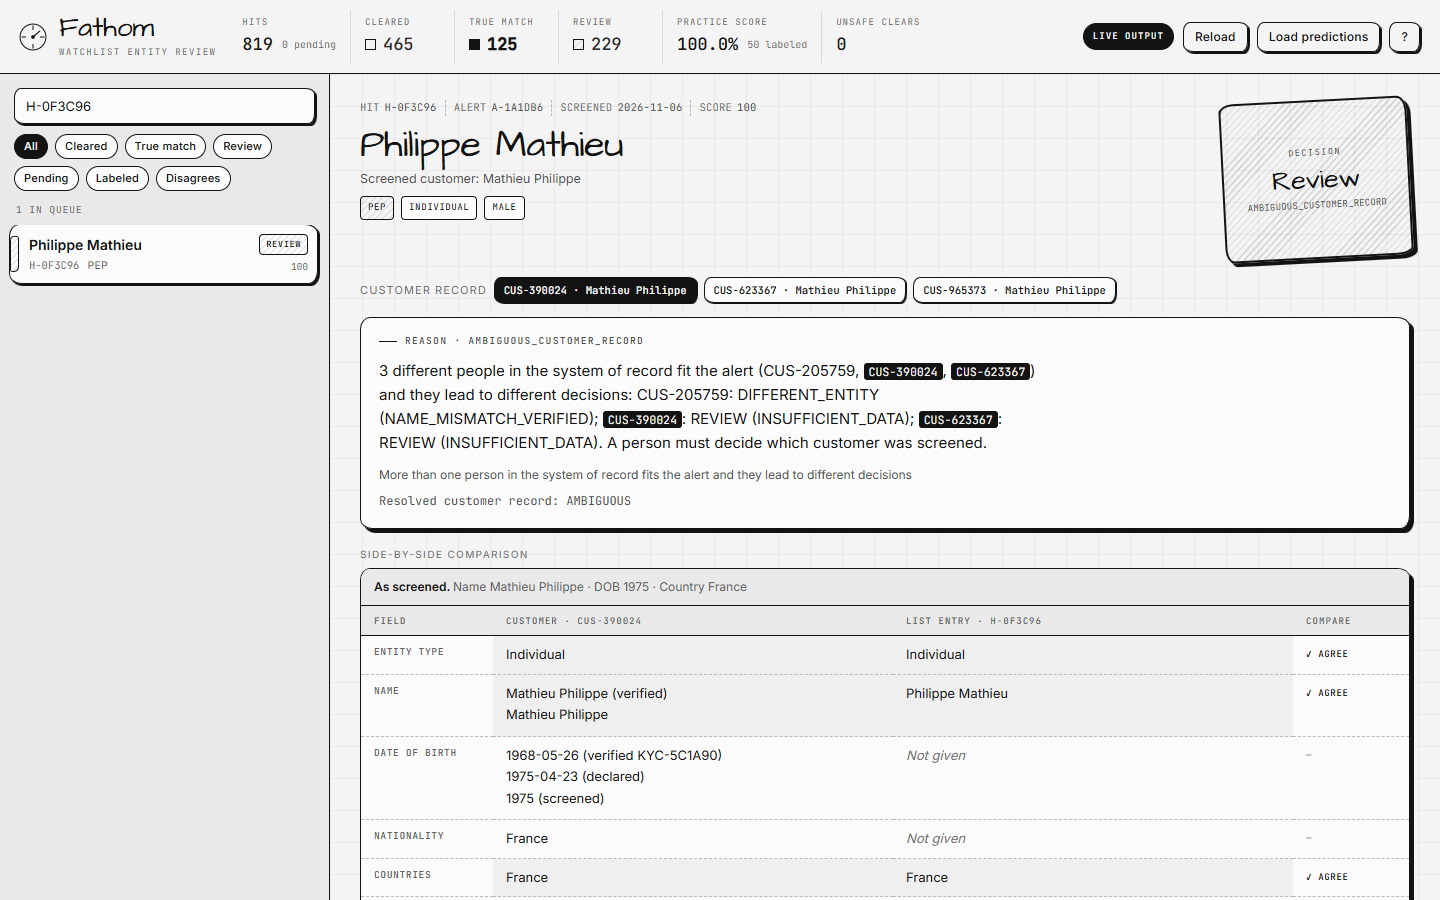
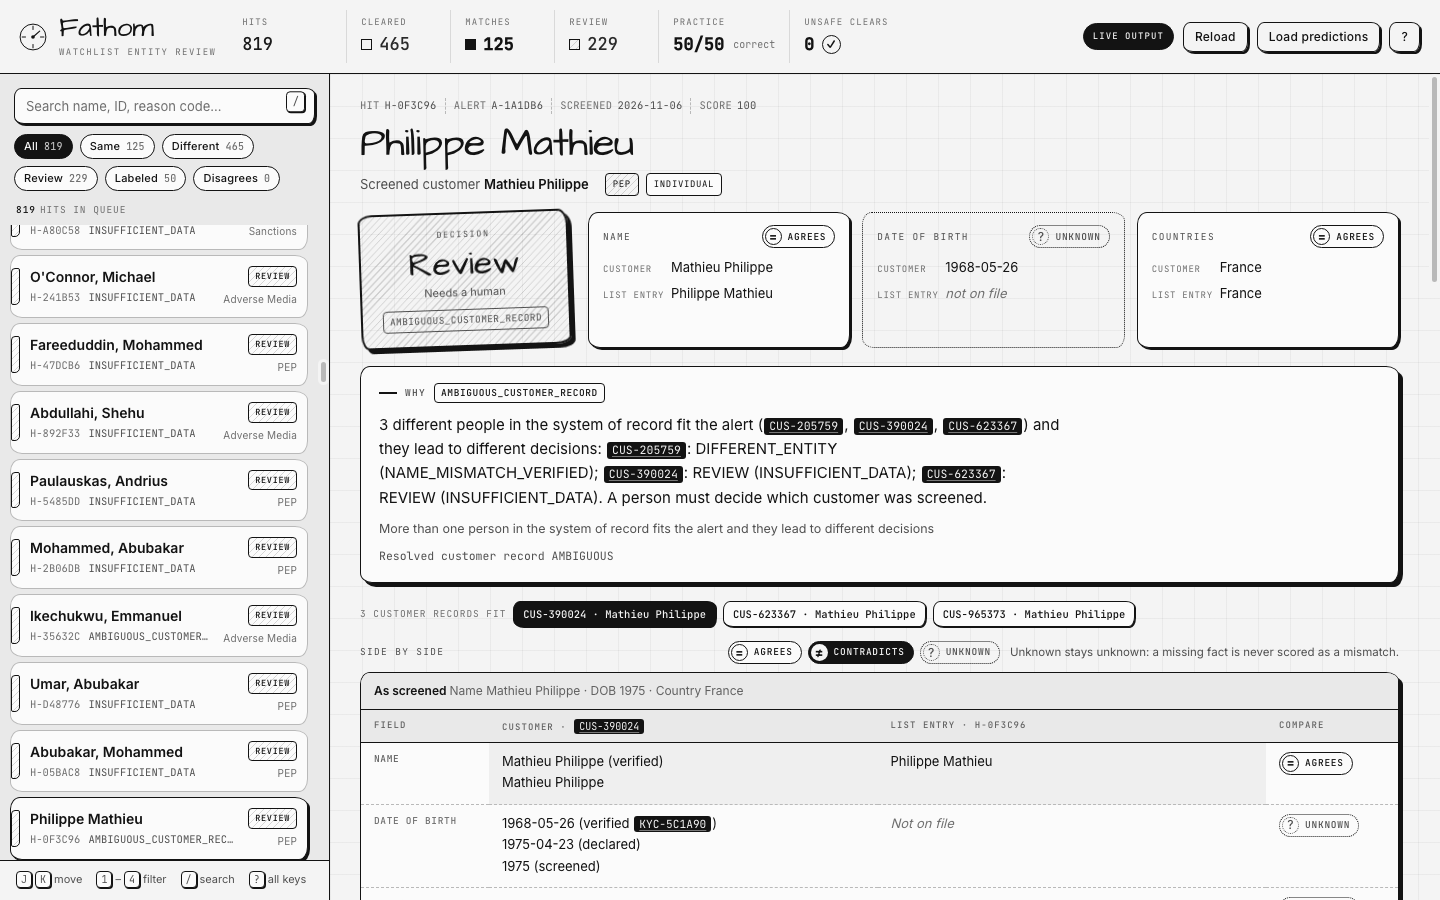
fix(ui): keep deep links, keep unknown facts unknown; refresh screenshots and README
Read the URL hash before the first render can rewrite it. A reason-code
contradiction now needs values on both sides (temporal impossibility no
longer paints DOB as contradicted). Screenshots 01-10 recaptured headless.

diff --git a/ui/app.js b/ui/app.js
@@ -32,7 +32,6 @@
     NAME_DOB_MATCH: { name: "agree", dob: "agree" },
     NAME_LOCATION_MATCH: { name: "agree", countries: "agree" },
     DOB_MISMATCH: { dob: "conflict" },
-    TEMPORAL_IMPOSSIBILITY: { dob: "conflict" },
     LOCATION_MISMATCH: { countries: "conflict" },
     NAME_MISMATCH_VERIFIED: { name: "conflict" },
   };
@@ -1061,7 +1060,13 @@
     }
     const rows = compareRows(cust, hit, kyc, alert, bundle, noteIdsForCompare);
     const asserted = CODE_FACTS[reasonCode] || {};
-    for (const r of rows) if (asserted[r.key]) r.status = asserted[r.key];
+    for (const r of rows) {
+      const want = asserted[r.key];
+      if (!want) continue;
+      // A contradiction needs a value on both sides; otherwise the fact stays unknown.
+      if (want === "conflict" && r.brief && !(r.brief[0] && r.brief[1])) continue;
+      r.status = want;
+    }
     rows.sort((a, b) => ROW_ORDER.indexOf(a.key) - ROW_ORDER.indexOf(b.key));
     const byKey = Object.fromEntries(rows.map((r) => [r.key, r]));
 
@@ -1423,6 +1428,9 @@
 
   async function main() {
     bind();
+    // Read the deep link before the first render can rewrite the hash.
+    const fromHash = (location.hash || "").replace(/^#/, "");
+    if (fromHash) state.selectedId = fromHash;
     window.addEventListener("hashchange", () => {
       const id = (location.hash || "").replace(/^#/, "");
       if (id && state.bundle && state.bundle.hits[id] && id !== state.selectedId) {
@@ -1439,7 +1447,6 @@
     }
     $("boot").classList.add("done");
     // Default to labeled queue in sample mode so the desk is populated with decisions.
-    const fromHash = (location.hash || "").replace(/^#/, "");
     if (fromHash && state.bundle && state.bundle.hits[fromHash]) {
       state.selectedId = fromHash;
     }

diff --git a/ui/README.md b/ui/README.md
@@ -29,11 +29,13 @@ If you already have a predictions file, use **Load predictions** in the top bar,
 
 ## What you will see
 
-- Counts by decision, plus a practice-set decision score and unsafe-clearance count when labels exist (the 50 `practice_labels.jsonl` hits). The score is the share of review-baseline cost saved, using the brief’s cost matrix (an unsafe clear costs 60).
-- Filters: cleared / true match / review / pending / labeled / disagreements, and a name or ID search.
-- A side-by-side customer vs list-entry comparison with agree / conflict / insufficient highlighting on name, date of birth, nationality, countries and entity type.
-- The decision reason, reason code, cited evidence records, and (for practice hits) the reference reason and file path.
-- Keyboard: `J` / `K` next and previous, `1–4` filters, `L` labeled, `D` disagreements, `/` search, `?` help.
+- **Header**: hits, cleared, matches, review, practice labels correct (`50/50`) and unsafe clears. All are computed from the bundle, none are hard-coded.
+- **Verdict band** on every hit: a stamp with **SAME / DIFFERENT / REVIEW** and the reason code, next to Name, Date of birth and Countries tiles. Each tile is in one of three states that differ in shape as well as shade: **= agrees** (solid), **≠ contradicts** (ink fill, hatched), **? unknown** (dotted, empty). A missing fact is never drawn as a mismatch. Facts that the reason code asserts take precedence over the desk's own heuristics.
+- **Side-by-side table** for customer vs list entry. The core facts come first, and weak fields that are still unknown fold under "more fields".
+- **Clickable evidence**: every record ID (`CUS-`, `KYC-`, `NOTE-`, `SR-`, …) in the reason, table or path is a button. It scrolls to the source record's card and flashes it once.
+- **Filters with live counts** (All / Same / Different / Review / Labeled / Disagrees) and search by name, ID or reason code, with an empty state when nothing matches.
+- **Keyboard**: `J` / `K` next and previous hit (arrow keys while the queue has focus), `1–4` for all / same / different / review, `L` labeled, `D` disagreements, `/` search (`Enter` returns to the queue), `Esc` to clear, `?` for help. A hint bar sits under the queue.
+- **Motion** follows Emil Kowalski's rules (see `UX_PLAN.md`): 180–220ms with a strong ease-out, transform and opacity only, and pointer selection only. Keyboard navigation swaps instantly. `prefers-reduced-motion` keeps the fades and drops the movement.
 
 Until `output/dev.jsonl` exists, the 50 practice-label answers are loaded as **sample predictions** and a banner says so. That sample will score 100% on the practice set — it is not the team’s system.
 
@@ -45,4 +47,5 @@ Until `output/dev.jsonl` exists, the 50 practice-label answers are loaded as **s
 | `prepare.py` | Builds a compact `data/bundle.json` (hits, alerts, candidate customers, KYC, notes, search results, labels, predictions) |
 | `serve.py` | Tiny server + auto-refresh |
 | `data/bundle.json` | Generated case file (~4 MB) |
-| `screenshots/` | Headless captures of the desk |
+| `UX_PLAN.md` | Motion and clarity audit, and the plan this design follows |
+| `screenshots/` | Headless captures of the desk (1440×900) |
